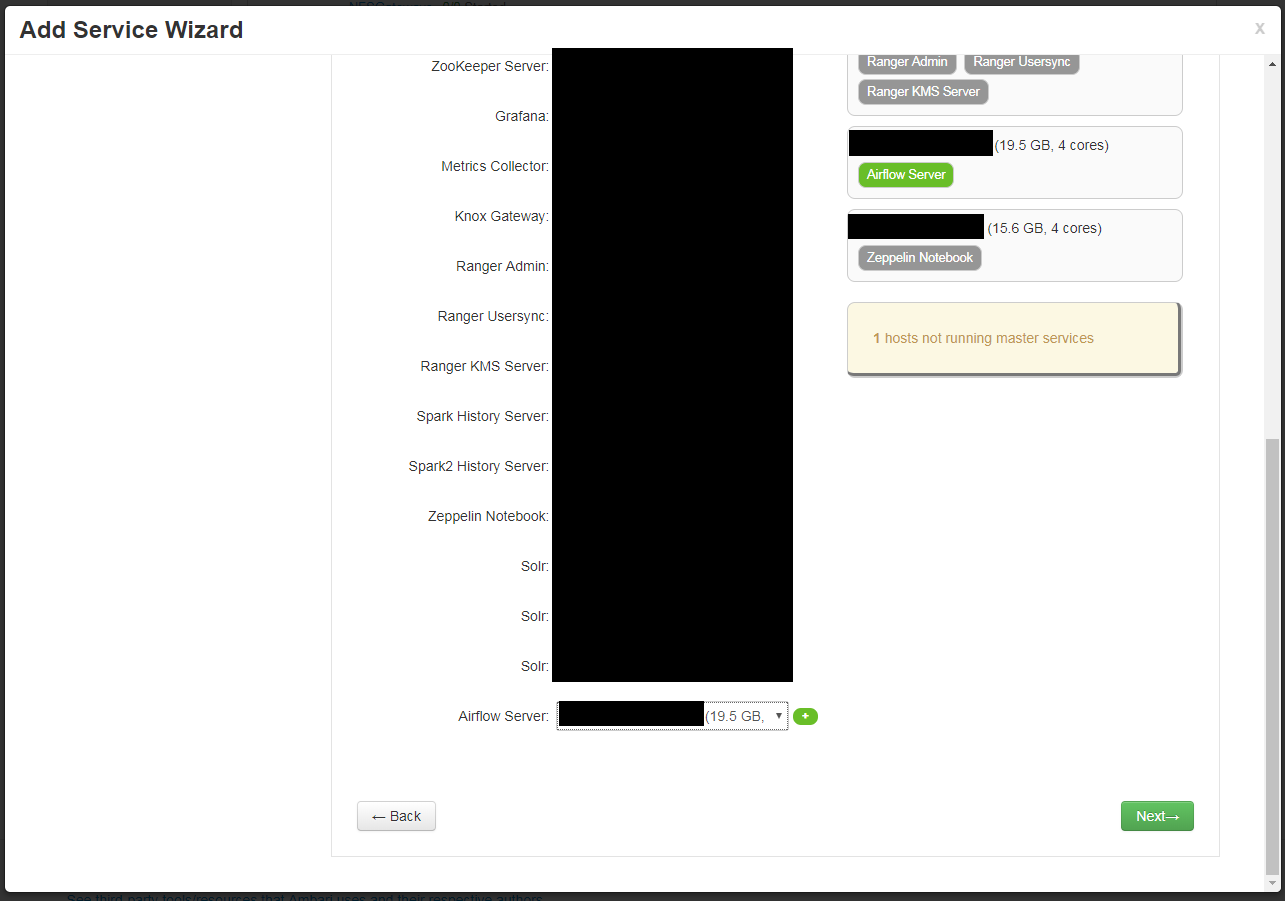
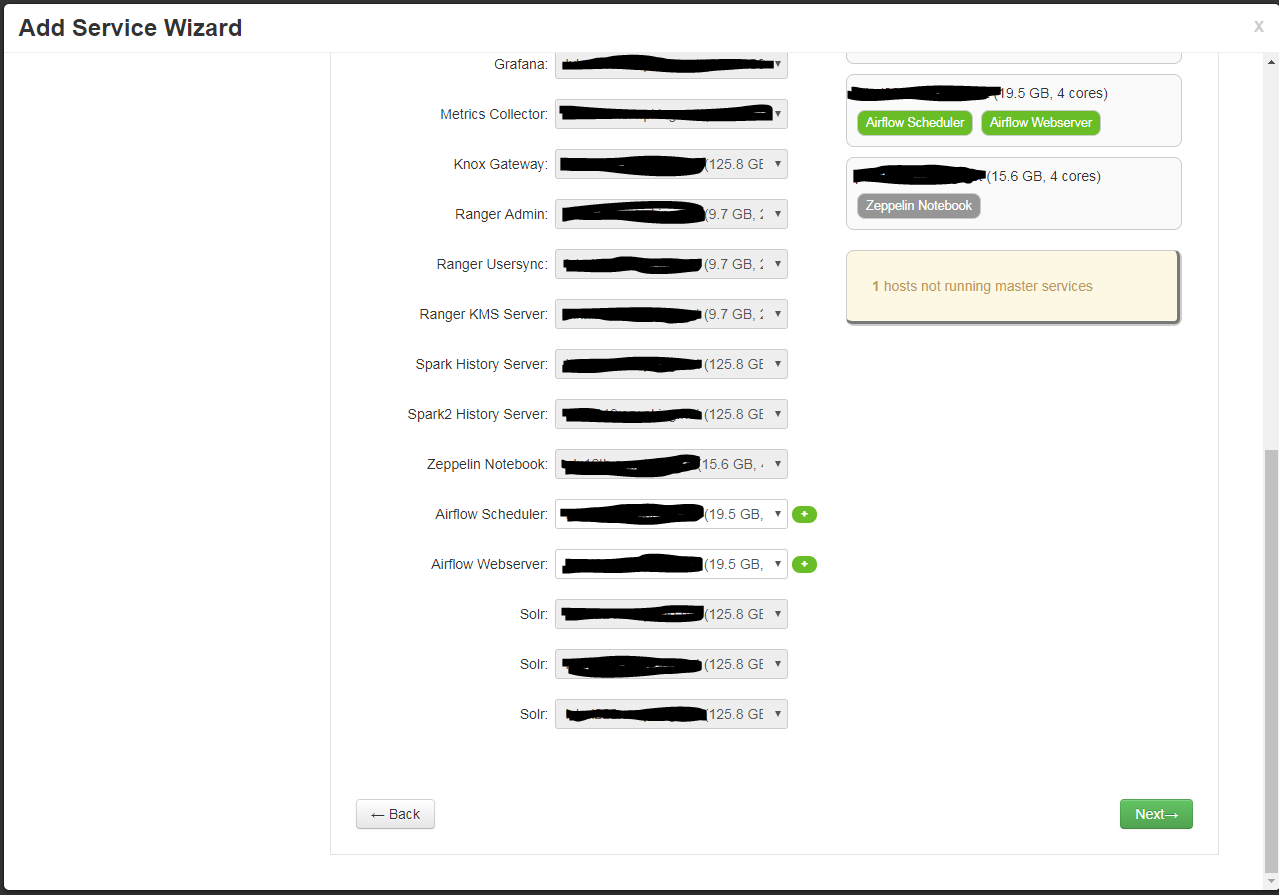
LFS fix. Scheduler, worker added

diff --git a/airflow-service-mpack/common-services/AIRFLOW/1.9.0/package/scripts/airflow_scheduler_control.py b/airflow-service-mpack/common-services/AIRFLOW/1.9.0/package/scripts/airflow_scheduler_control.py
@@ -3,23 +3,19 @@ from resource_management import *
 from subprocess import call
 from airflow_setup import *
 
-class AirflowServer(Script):
+class AirflowScheduler(Script):
 	"""
 	Contains the interface definitions for methods like install, 
 	start, stop, status, etc. for the Airflow Server
 	"""
 	def install(self, env):
-		from airflow_install import airflow_install
 		import params
 		env.set_params(params)
 		self.install_packages(env)
 		Logger.info(format("Installing Airflow Service"))
-		airflow_install(params.airflow_install_dir)
-		airflow_afterinstall_setup()
-		Execute(format("sed -i 's+\*\*\*CHANGETHIS\*\*\*+{airflow_install_dir}/airflow+g' {airflow_install_dir}/airflow/bin/activ*"),
-			user=params.airflow_user
-		)
-		Execute(format("source {airflow_install_dir}/airflow/bin/activate && export AIRFLOW_HOME={airflow_home} && airflow initdb"),
+		Execute(format("pip install apache-airflow[all]==1.9.0 apache-airflow[celery]==1.9.0"))
+		Execute(format("mkdir -p {airflow_home} && chown -R {airflow_user}:{airflow_group} {airflow_home}"))
+		Execute(format("export AIRFLOW_HOME={airflow_home} && airflow initdb"),
 			user=params.airflow_user
 		)
 
@@ -31,16 +27,17 @@ class AirflowServer(Script):
 	def start(self, env):
 		import params
 		self.configure(env)
-		Execute(format("source {airflow_install_dir}/airflow/bin/activate && export AIRFLOW_HOME={airflow_home} && airflow webserver &"),
+		Execute(format("export AIRFLOW_HOME={airflow_home} && airflow scheduler &"),
 			user=params.airflow_user
 		)
+		Execute ('ps -ef | grep "airflow scheduler" | grep -v grep | awk \'{print $2}\' | tail -n 1 > ' + params.airflow_scheduler_pid_file, user=params.airflow_user)
 
 	def stop(self, env):
 		import params
 		env.set_params(params)
 		# Kill the process of Airflow
-		Execute ('ps -ef | grep airflow | grep -v grep | awk	\'{print $2}\' | xargs kill -9', user=params.airflow_user, ignore_failures=True)
-		File(params.airflow_pid_file,
+		Execute ('ps -ef | grep "airflow scheduler" | grep -v grep | awk	\'{print $2}\' | xargs kill -9', user=params.airflow_user, ignore_failures=True)
+		File(params.airflow_scheduler_pid_file,
 			action = "delete",
 			owner = params.airflow_user
 		)
@@ -49,7 +46,7 @@ class AirflowServer(Script):
 		import status_params
 		env.set_params(status_params)
 		#use built-in method to check status using pidfile
-		check_process_status(status_params.airflow_pid_file)
+		check_process_status(status_params.airflow_scheduler_pid_file)
 
 if __name__ == "__main__":
-	AirflowServer().execute()
+	AirflowScheduler().execute()

diff --git a/airflow-service-mpack/common-services/AIRFLOW/1.9.0/package/scripts/airflow_webserver_control.py b/airflow-service-mpack/common-services/AIRFLOW/1.9.0/package/scripts/airflow_webserver_control.py
@@ -1,0 +1,53 @@
+import sys, os, pwd, grp, signal, time
+from resource_management import *
+from subprocess import call
+from airflow_setup import *
+
+class AirflowWebserver(Script):
+	"""
+	Contains the interface definitions for methods like install, 
+	start, stop, status, etc. for the Airflow Server
+	"""
+	def install(self, env):
+		import params
+		env.set_params(params)
+		self.install_packages(env)
+		Logger.info(format("Installing Airflow Service"))
+		Execute(format("pip install apache-airflow[all]==1.9.0 apache-airflow[celery]==1.9.0"))
+		Execute(format("mkdir -p {airflow_home} && chown -R {airflow_user}:{airflow_group} {airflow_home}"))
+		Execute(format("export AIRFLOW_HOME={airflow_home} && airflow initdb"),
+			user=params.airflow_user
+		)
+
+	def configure(self, env):
+		import params
+		env.set_params(params)
+		airflow_configure(env)
+		
+	def start(self, env):
+		import params
+		self.configure(env)
+		Execute(format("export AIRFLOW_HOME={airflow_home} && airflow webserver &"),
+			user=params.airflow_user
+		)
+		Execute ('ps -ef | grep "airflow webserver" | grep -v grep | awk \'{print $2}\' | tail -n 1 > ' + params.airflow_webserver_pid_file, user=params.airflow_user)
+
+	def stop(self, env):
+		import params
+		env.set_params(params)
+		# Kill the process of Airflow
+		Execute ('ps -ef | grep airflow-webserver | grep -v grep | awk	\'{print $2}\' | xargs kill -9', user=params.airflow_user, ignore_failures=True)
+		Execute ('ps -ef | grep "airflow webserver" | grep -v grep | awk	\'{print $2}\' | xargs kill -9', user=params.airflow_user, ignore_failures=True)
+		File(params.airflow_webserver_pid_file,
+			action = "delete",
+			owner = params.airflow_user
+		)
+
+	def status(self, env):
+		import status_params
+		env.set_params(status_params)
+		#use built-in method to check status using pidfile
+		check_process_status(status_params.airflow_webserver_pid_file)
+
+if __name__ == "__main__":
+	AirflowWebserver().execute()

diff --git a/airflow-service-mpack/common-services/AIRFLOW/1.9.0/package/scripts/params.py b/airflow-service-mpack/common-services/AIRFLOW/1.9.0/package/scripts/params.py
@@ -20,10 +20,14 @@ import functools
 # a map of the Ambari role to the component name
 # for use with <stack-root>/current/<component>
 SERVER_ROLE_DIRECTORY_MAP = {
-  'AIRFLOW_SERVER' : 'airflow-server',
+  'AIRFLOW_WEBSERVER' : 'airflow-webserver',
+  'AIRFLOW_SCHEDULER' : 'airflow-scheduler',
+  'AIRFLOW_WORKER' : 'airflow-worker'
 }
 
-component_directory = Script.get_component_from_role(SERVER_ROLE_DIRECTORY_MAP, "AIRFLOW_SERVER")
+component_directory_web = Script.get_component_from_role(SERVER_ROLE_DIRECTORY_MAP, "AIRFLOW_WEBSERVER")
+component_directory_sched = Script.get_component_from_role(SERVER_ROLE_DIRECTORY_MAP, "AIRFLOW_SCHEDULER")
+component_directory_work = Script.get_component_from_role(SERVER_ROLE_DIRECTORY_MAP, "AIRFLOW_WORKER")
 config = Script.get_config()
 tmp_dir = Script.get_tmp_dir()
 stack_root = Script.get_stack_root()
@@ -35,10 +39,11 @@ service_packagedir = os.path.realpath(__file__).split('/scripts')[0]
 cluster_name = str(config['clusterName'])
 ambari_server_hostname = config['clusterHostInfo']['ambari_server_host'][0]
 
-airflow_install_dir = config['configurations']['airflow-env']['airflow_install_dir']
 airflow_user = config['configurations']['airflow-env']['airflow_user']
 airflow_group = config['configurations']['airflow-env']['airflow_group']
-airflow_pid_file = config['configurations']['airflow-env']['airflow_pid_file']
+airflow_webserver_pid_file = config['configurations']['airflow-env']['airflow_webserver_pid_file']
+airflow_scheduler_pid_file = config['configurations']['airflow-env']['airflow_scheduler_pid_file']
+airflow_worker_pid_file = config['configurations']['airflow-env']['airflow_worker_pid_file']
 
 #[core]
 airflow_home = config['configurations']['airflow-core-site']['airflow_home']

diff --git a/airflow-service-mpack/common-services/AIRFLOW/1.9.0/package/scripts/airflow_worker_control.py b/airflow-service-mpack/common-services/AIRFLOW/1.9.0/package/scripts/airflow_worker_control.py
@@ -1,0 +1,49 @@
+import sys, os, pwd, grp, signal, time
+from resource_management import *
+from subprocess import call
+from airflow_setup import *
+
+class AirflowWorker(Script):
+	"""
+	Contains the interface definitions for methods like install, 
+	start, stop, status, etc. for the Airflow Server
+	"""
+	def install(self, env):
+		import params
+		env.set_params(params)
+		self.install_packages(env)
+		Logger.info(format("Installing Airflow Service"))
+		Execute(format("pip install apache-airflow[all]==1.9.0 apache-airflow[celery]==1.9.0"))
+		Execute(format("mkdir -p {airflow_home} && chown -R {airflow_user}:{airflow_group} {airflow_home}"))
+		Execute(format("export AIRFLOW_HOME={airflow_home} && airflow initdb"),
+			user=params.airflow_user
+		)
+
+	def configure(self, env):
+		import params
+		env.set_params(params)
+		airflow_configure(env)
+		
+	def start(self, env):
+		import params
+		self.configure(env)
+		Execute(format("export AIRFLOW_HOME={airflow_home} && airflow worker &"))
+		Execute ('ps -ef | grep "airflow serve_logs" | grep -v grep | awk \'{print $2}\' > ' + params.airflow_worker_pid_file)
+
+	def stop(self, env):
+		import params
+		env.set_params(params)
+		# Kill the process of Airflow
+		Execute ('ps -ef | grep "airflow serve_logs" | grep -v grep | awk	\'{print $2}\' | xargs kill -9', ignore_failures=True)
+		File(params.airflow_worker_pid_file,
+			action = "delete"
+		)
+
+	def status(self, env):
+		import status_params
+		env.set_params(status_params)
+		#use built-in method to check status using pidfile
+		check_process_status(status_params.airflow_worker_pid_file)
+
+if __name__ == "__main__":
+	AirflowWorker().execute()

diff --git a/airflow-service-mpack/common-services/AIRFLOW/1.9.0/package/scripts/status_params.py b/airflow-service-mpack/common-services/AIRFLOW/1.9.0/package/scripts/status_params.py
@@ -22,7 +22,9 @@ from resource_management.libraries.functions.default import default
 
 config = Script.get_config()
 
-airflow_pid_file = config['configurations']['airflow-env']['airflow_pid_file']
+airflow_webserver_pid_file = config['configurations']['airflow-env']['airflow_webserver_pid_file']
+airflow_scheduler_pid_file = config['configurations']['airflow-env']['airflow_scheduler_pid_file']
+airflow_worker_pid_file = config['configurations']['airflow-env']['airflow_worker_pid_file']
 airflow_user = config['configurations']['airflow-env']['airflow_user']
 airflow_group = config['configurations']['airflow-env']['airflow_group']
 airflow_log_dir = config['configurations']['airflow-env']['base_log_folder']

diff --git a/airflow-service-mpack/common-services/AIRFLOW/1.9.0/package/scripts/airflow_setup.py b/airflow-service-mpack/common-services/AIRFLOW/1.9.0/package/scripts/airflow_setup.py
@@ -8,15 +8,6 @@ from resource_management.core.shell import call
 from resource_management.core.system import System
 from resource_management.libraries.functions.default import default
 
-def airflow_afterinstall_setup():
-	"""
-	Creates Airflow user home directory and sets up the correct ownership.
-	"""
-	import params
-
-	Execute('id -u {0} &>/dev/null || useradd {0}'.format(params.airflow_user))
-	Execute('chown -R {0}:{1} {2}'.format(params.airflow_user,params.airflow_group,params.airflow_install_dir + "/airflow"))
-
 def airflow_configure(env):
 	import params
 	env.set_params(params)
